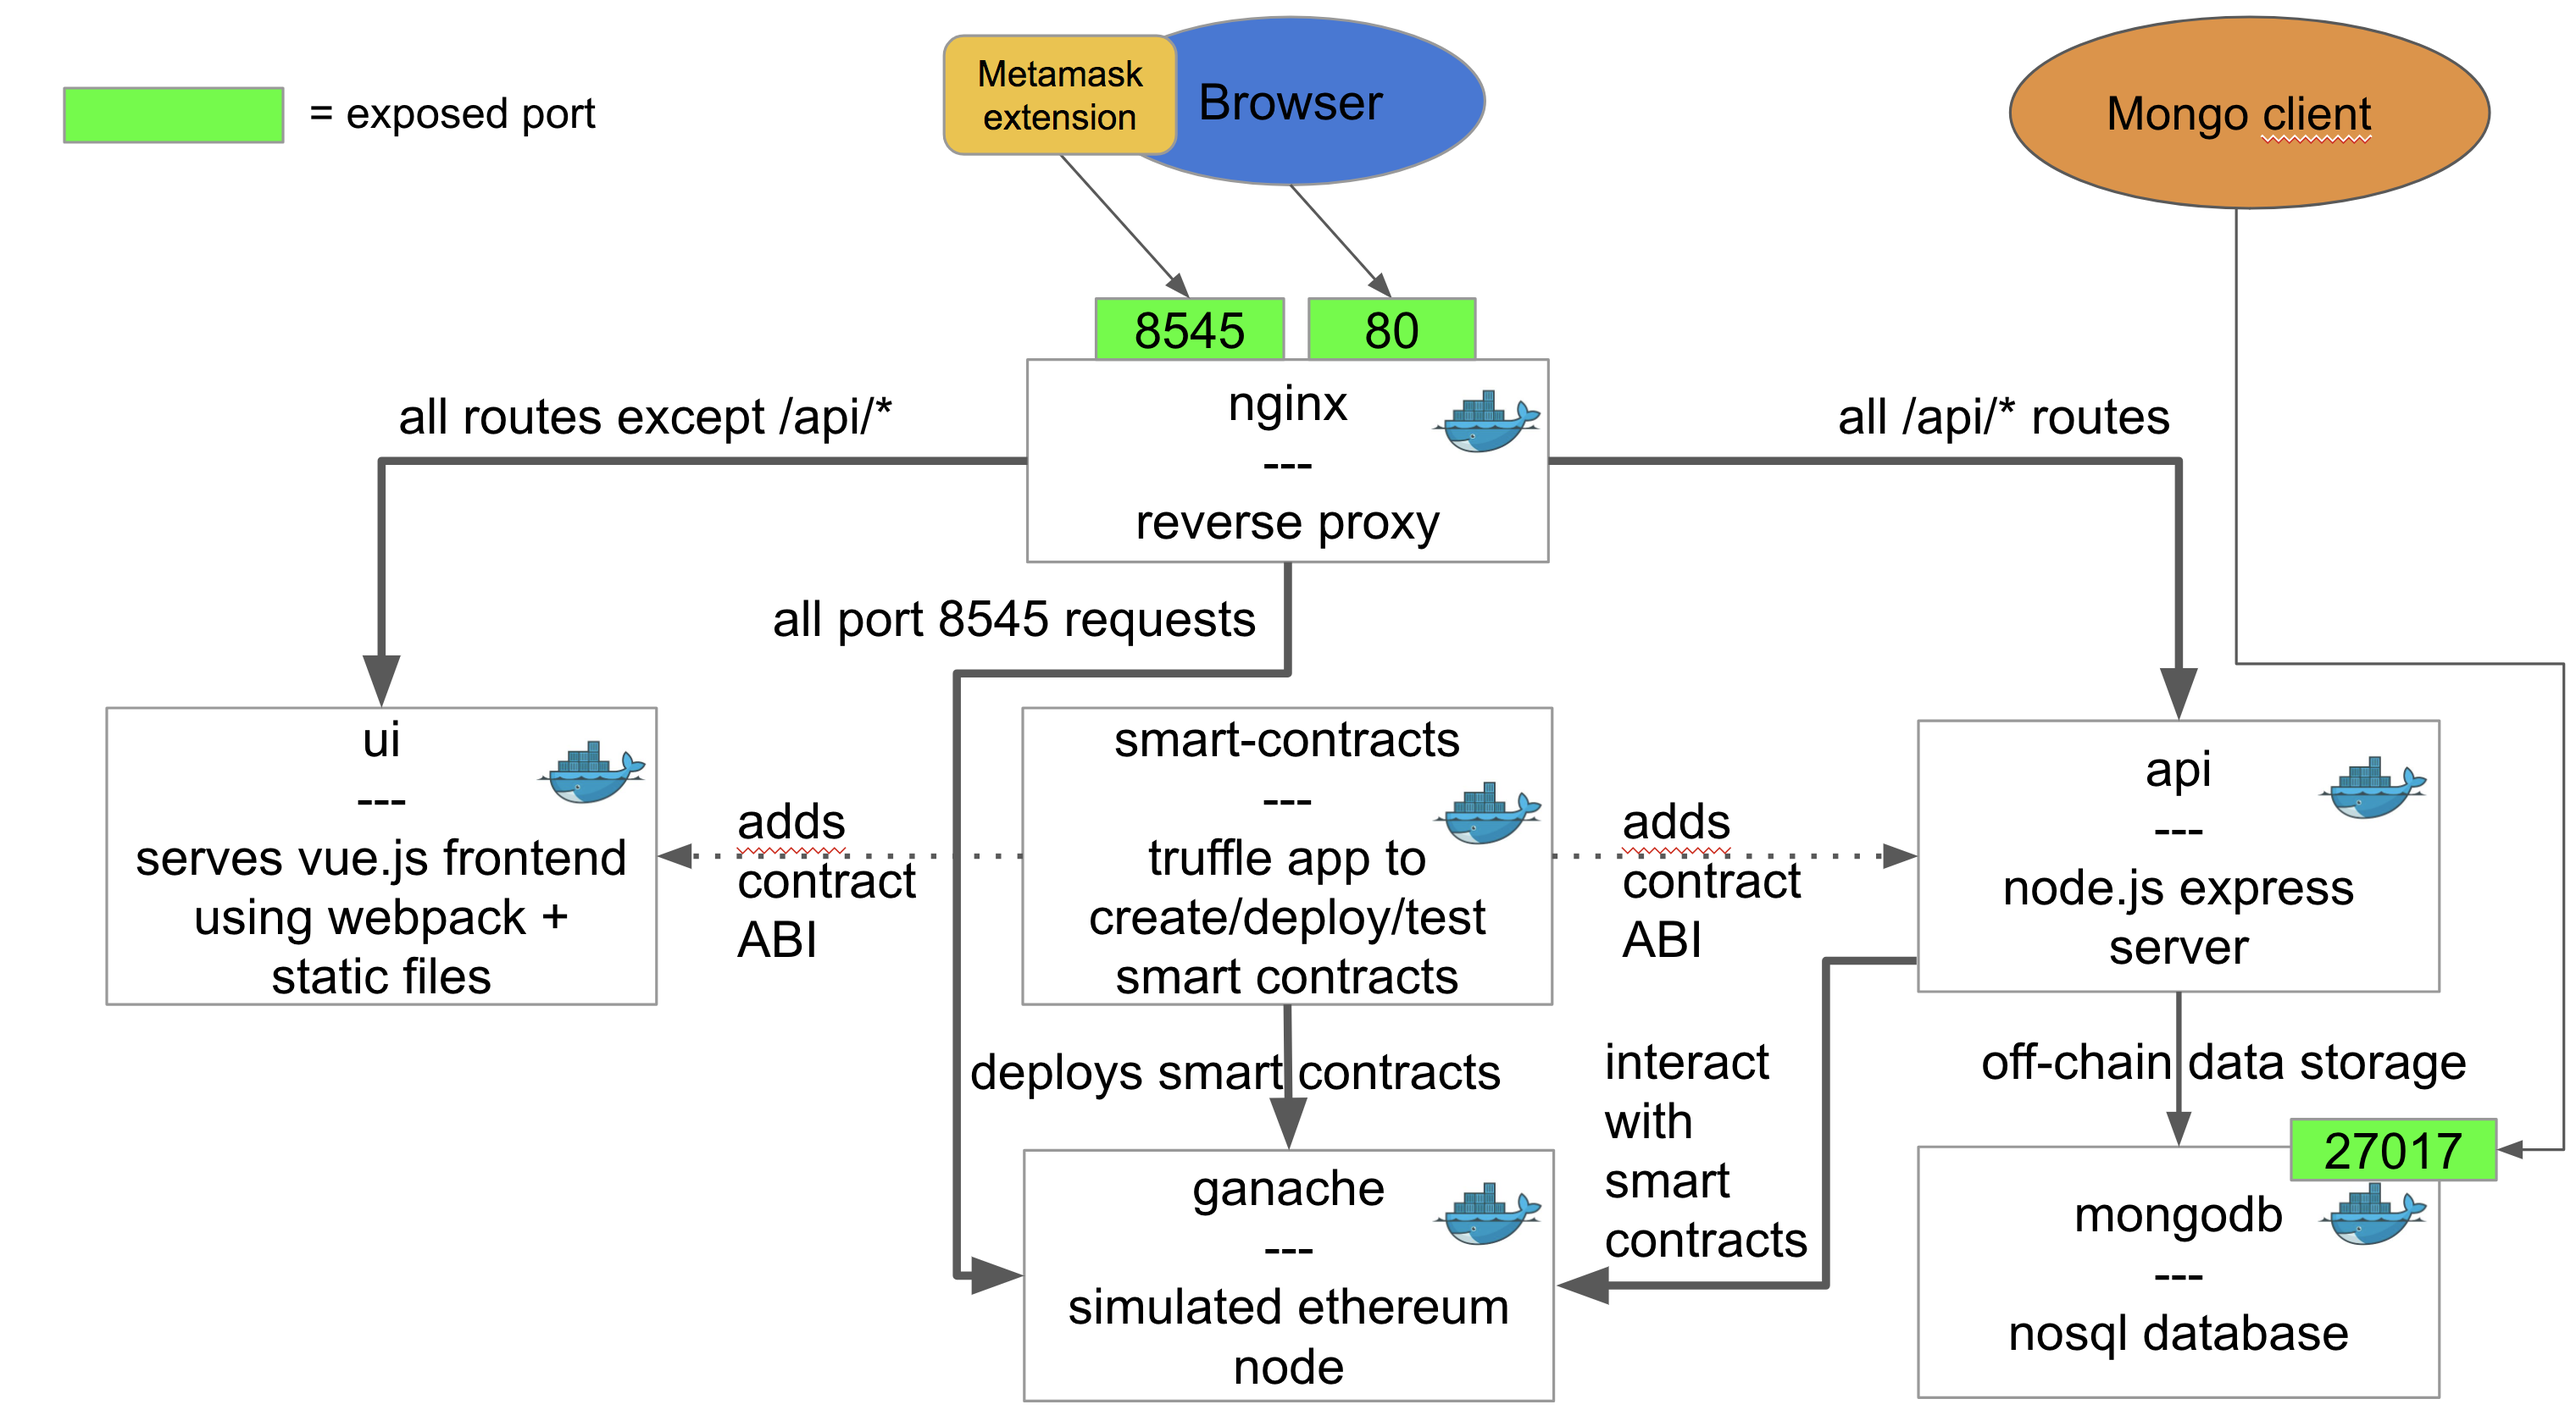
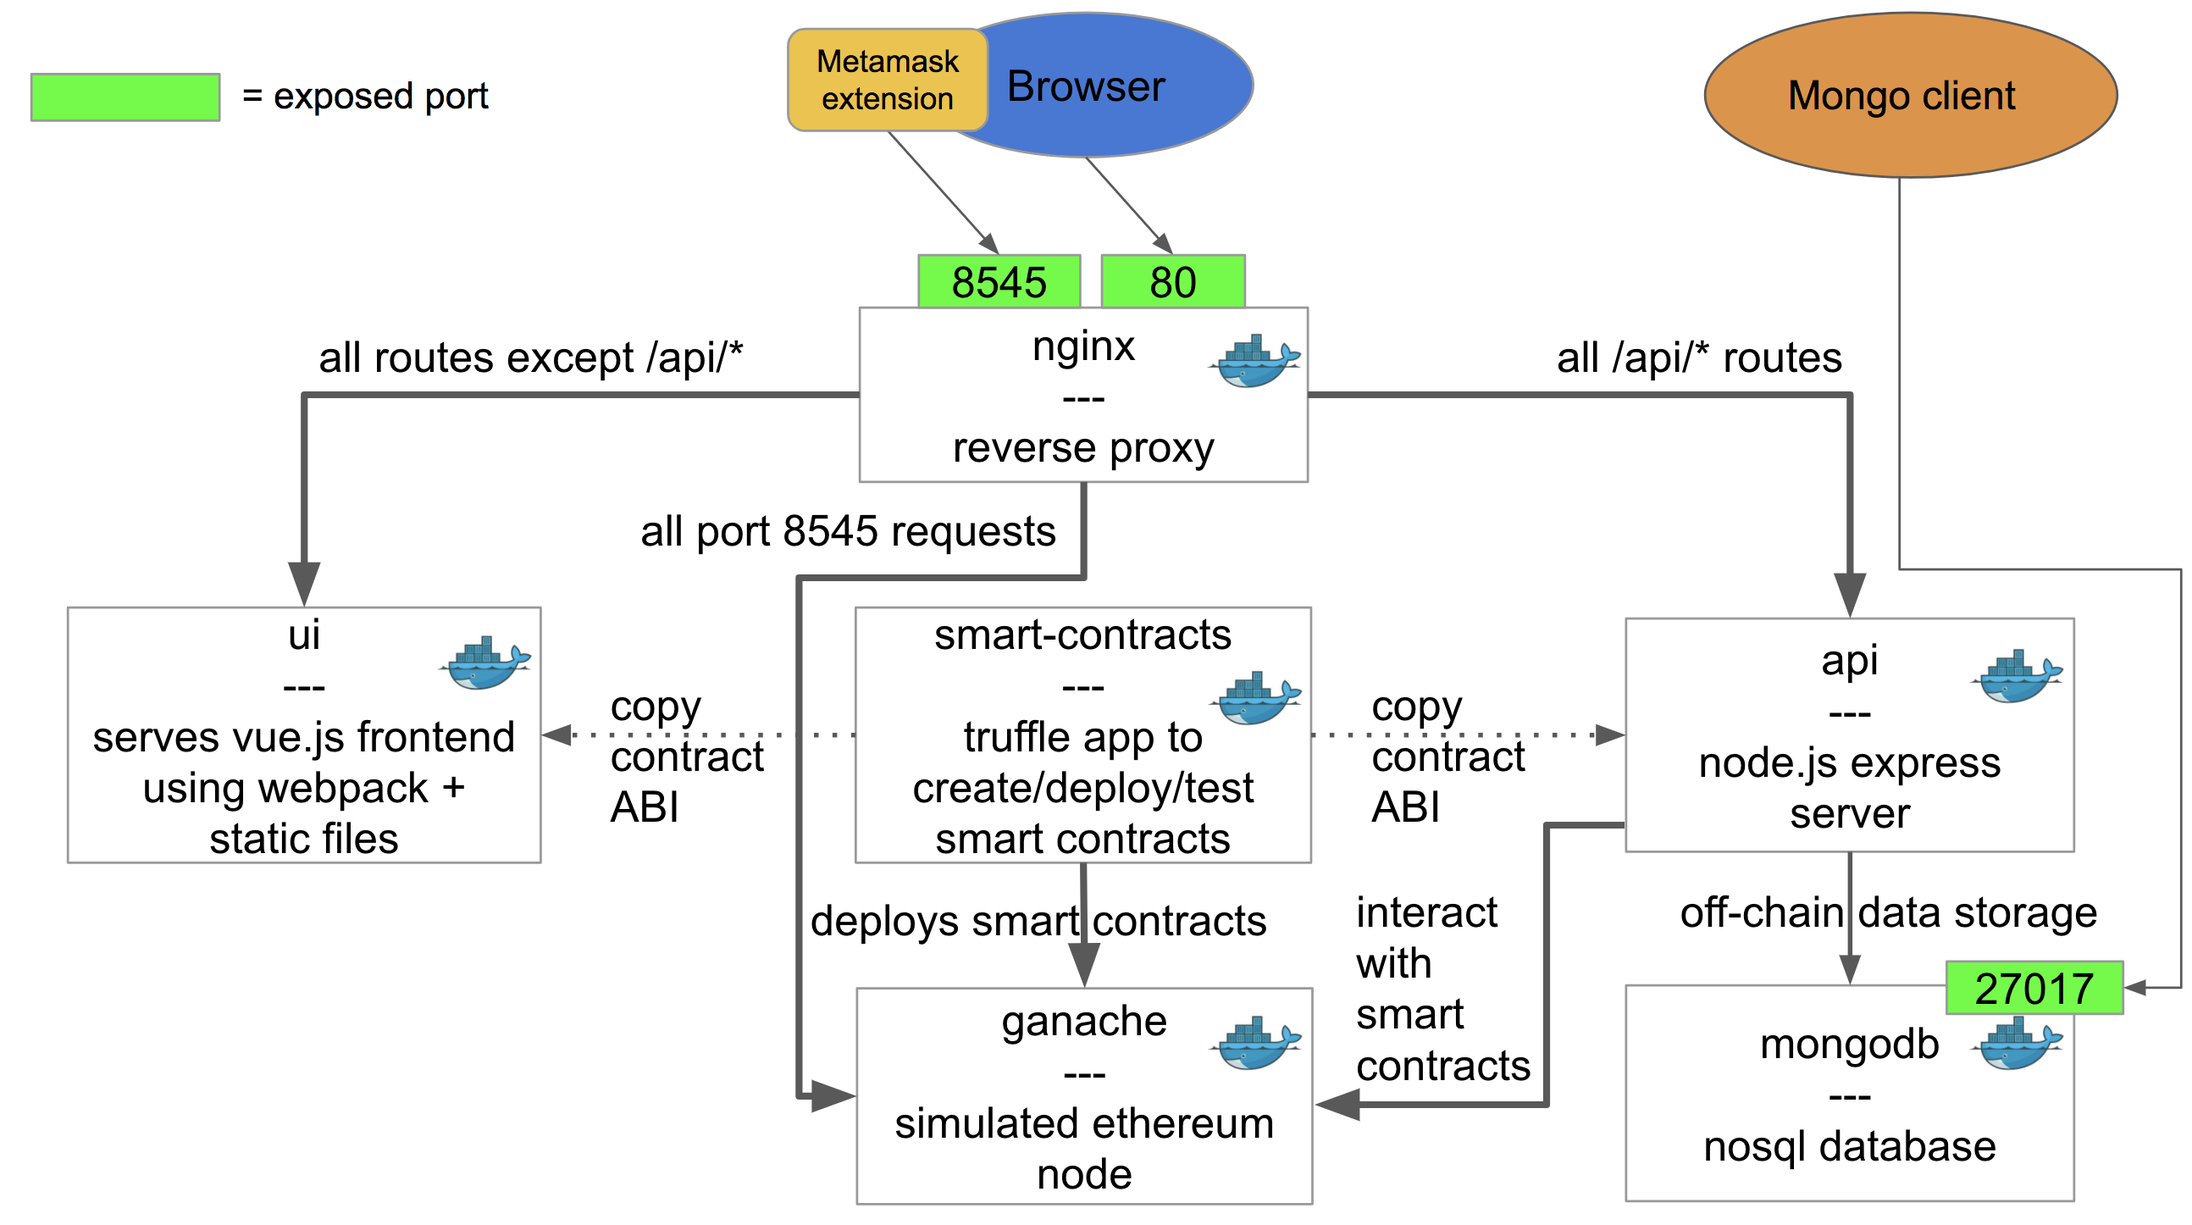
add container_overview image + info about default credentials

diff --git a/README.md b/README.md
@@ -9,7 +9,7 @@ This boilerplate consist of 6 applications, each running in its own docker conta
 - `ganache`, simulated ethereum full node using `ganache-cli`
 - `mongo`, mongodb database
 
-There is a sample smart contract added called `Sample.sol`.
+![container overview](https://github.com/BlockChainCompany/ethereum-docker-mvp-boilerplate/raw/master/containers_overview.png)
 
 ## Prerequisites
 
@@ -72,6 +72,17 @@ To setup metamask:
 - if the `ganache` container is restarted, the nonce will be reset. If Metamask complains about a `"nonce mismatch"`, execute "reset account" in the Metamask browser plugin.
 - if you restart the application and the ui still shows the old state instead of the new fresh contract state,
 switch to a different network in the Metamask browser plugin (any will do), and then switch back to `localhost:8545`.
+
+## Credentials
+
+The web app uses authentication, the api uses passport + jsonwebtoken for authentication, the default credentials are located in `services/api/.env.sample`. When the api boots, it will check if there is a root user in the `Users` collection. If it doesn't find it, it will add the root user (see `services/api/seedDb.js`).
+
+The default credentials are:
+
+```
+username: admin@example.com
+password: changethis
+```
 
 ## Quickstart
 
